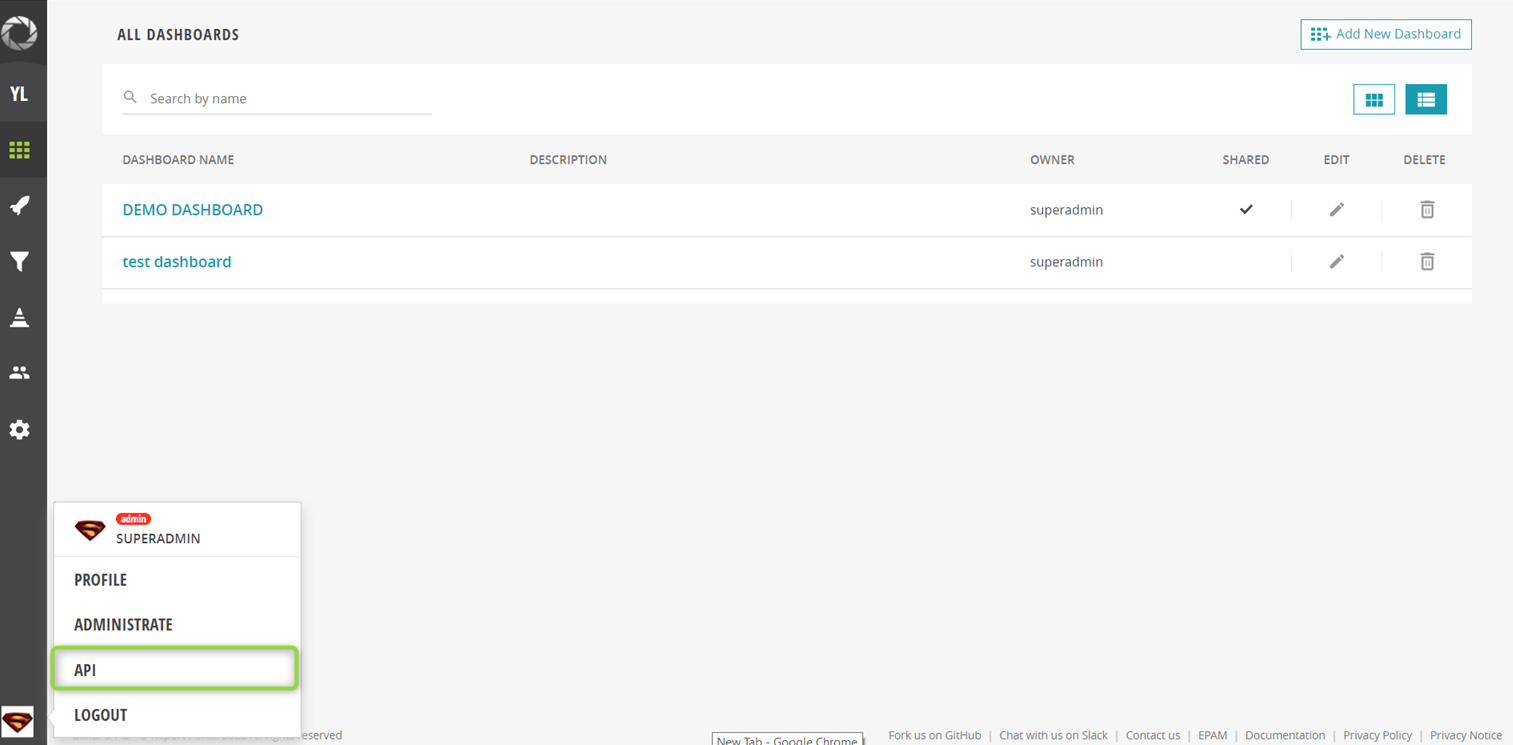
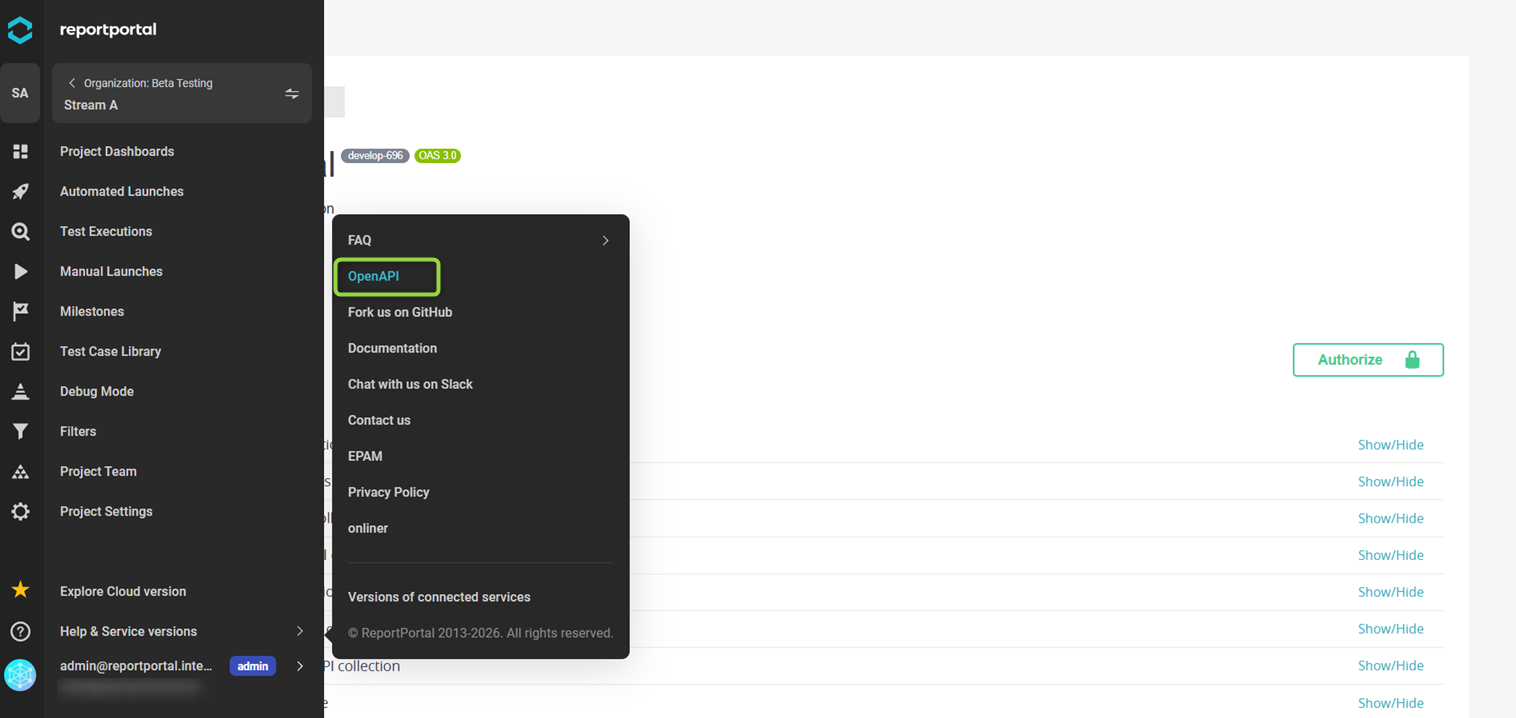
Documentation for 26.1

diff --git a/docs/intro.md b/docs/intro.md
@@ -76,6 +76,10 @@ ReportPortal offers widgets with a user-friendly visual interface to create inte
 
 ReportPortal is CI/CD agnostic tool solution. You can use [any CI environment](./test-results-reporting/HowToRunYourTests.md) to run automated tests to improve quality of product by catching issues early in development lifecycle.
 
+- ***Manual and automated testing in one place***
+
+The built-in [Test Management System](./test-management-system/index.md) keeps reusable test cases, Test Plans, Milestones, and manual executions in the same project as automated results. Coverage, progress, and failures stay together, so release decisions are based on the full testing picture.
+
 - ***Clear data management***
 
 With Organizations, ReportPortal allows you to structure and manage test data across multiple projects using a scalable, two-level hierarchy. You can organize tests results by project in a way that makes the most sense for your team – by test type, business unit, or any structure that fits your workflow.
